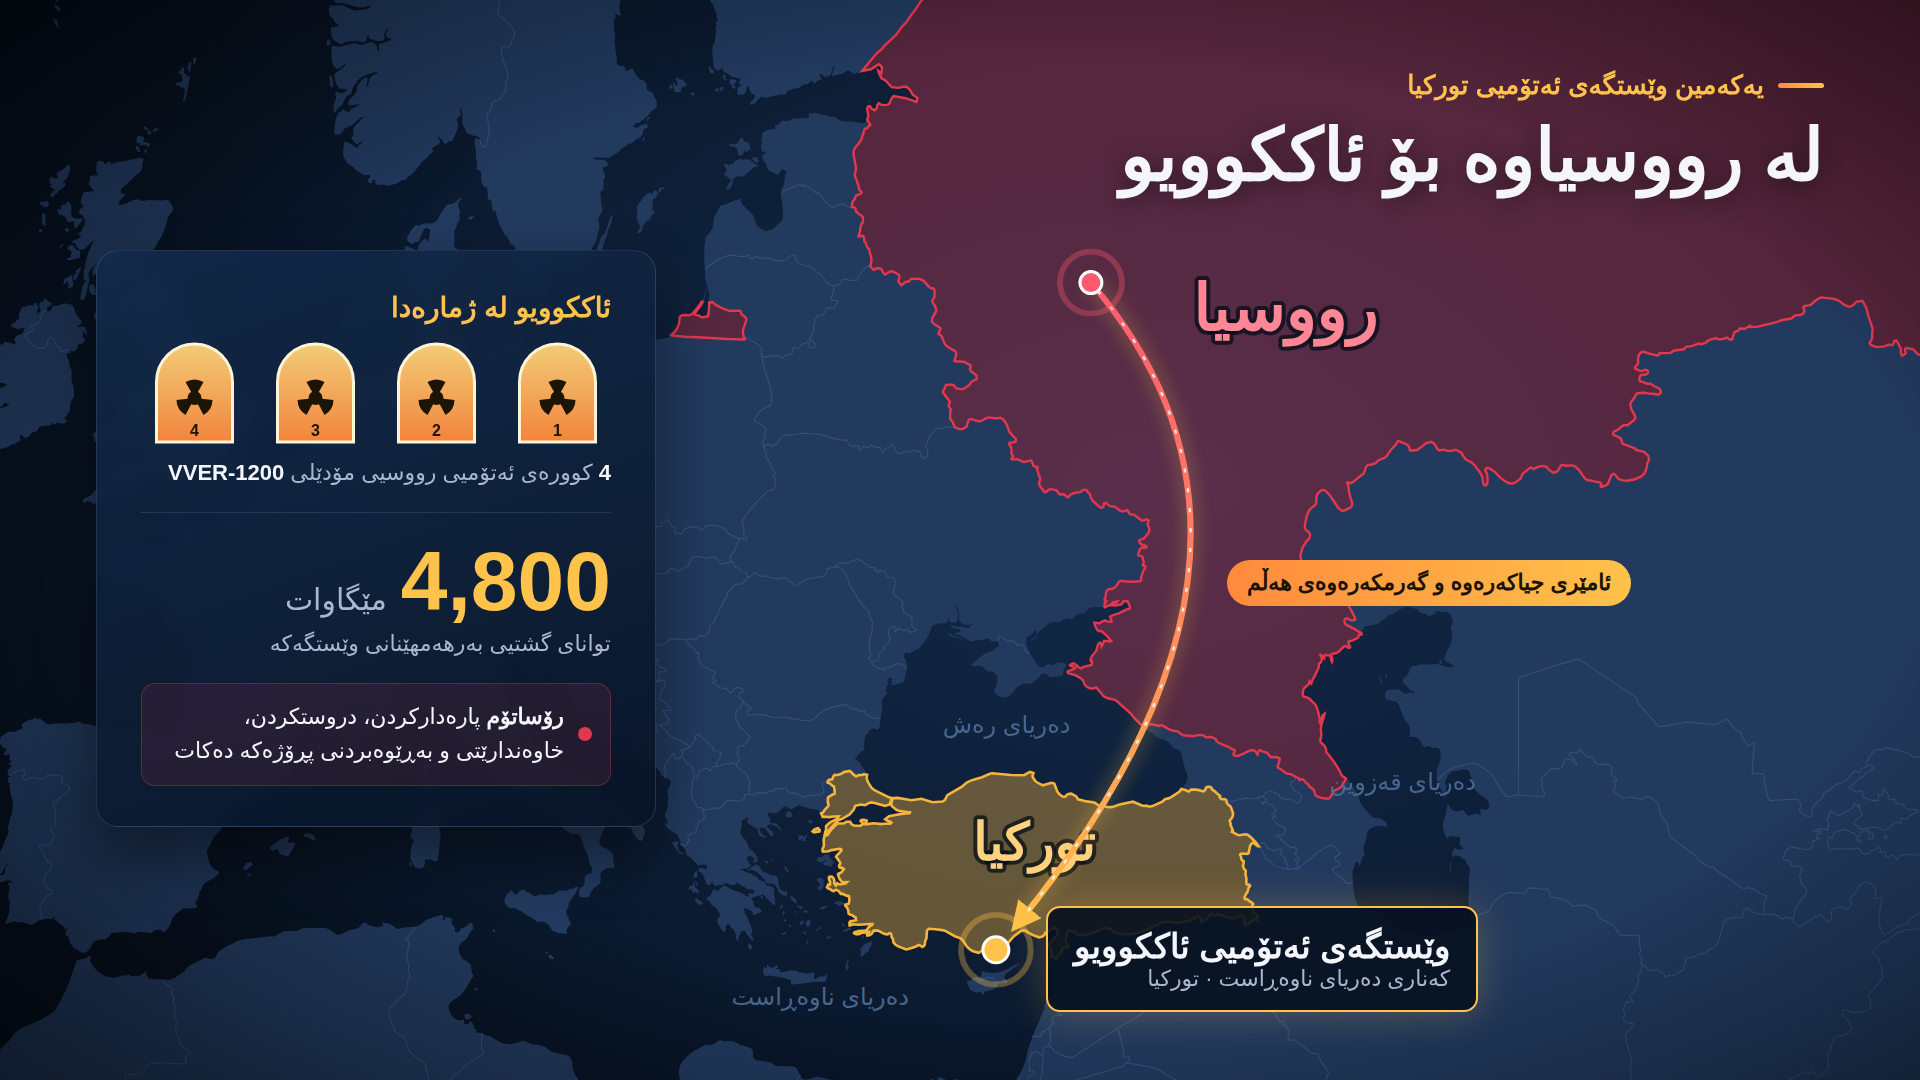
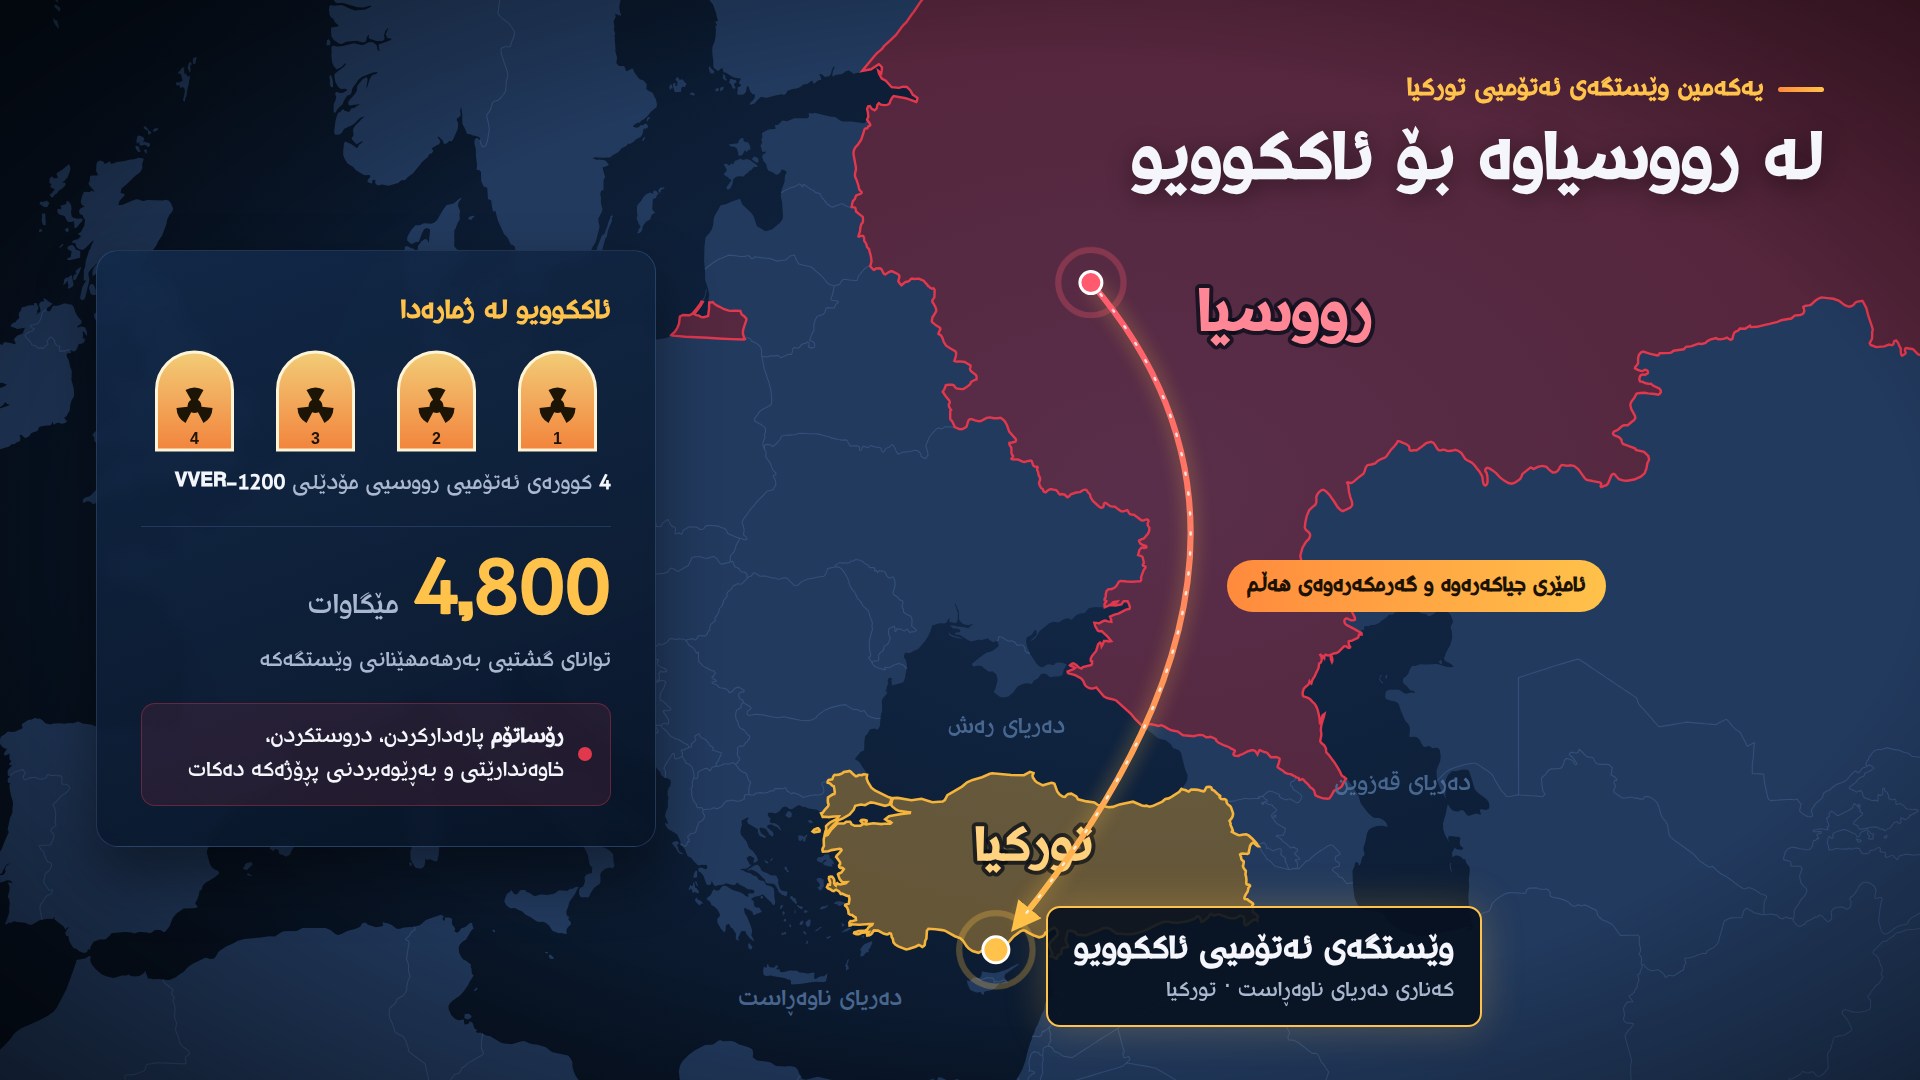
Use the Rudaw font in the Akkuyu graphics
Rename the uploaded RudawRegular file to fonts/rudaw.ttf so the page's
@font-face loads it, and re-render the PNG stills with it.

Claude-Session: https://claude.ai/code/session_01RW1aCaYC4KwRsyjVPvs7fz

diff --git a/akkuyu-graphics/fonts/README.md b/akkuyu-graphics/fonts/README.md
@@ -1,10 +1,4 @@
 # فۆنتی رووداو
 
-فایلی فۆنتی تۆڕی میدیایی رووداو لێرە دابنێ بەم ناوانە (یەکێکیان بەسە):
-
-- `rudaw.woff2`
-- `rudaw.woff`
-- `rudaw.ttf`
-
-ئەگەر فۆنتەکە لەسەر کۆمپیوتەرەکەت دامەزرابێت (بە ناوی `Rudaw`)، راستەوخۆ بەکاردێت.
-ئەگەر نەدۆزرایەوە، گرافیکەکان فۆنتی `Noto Kufi Arabic` بەکاردەهێنن.
+`rudaw.ttf` فۆنتی تۆڕی میدیایی رووداوە (RudawRegular) و گرافیکەکان بەکاری دەهێنن.
+ئەگەر فۆنتەکە نەدۆزرایەوە، `Noto Kufi Arabic` بەکاردێت.
